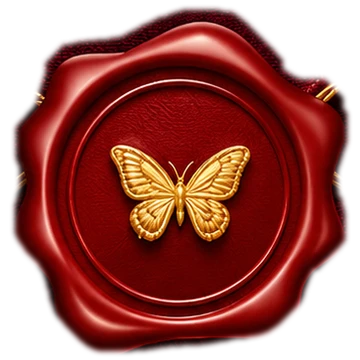
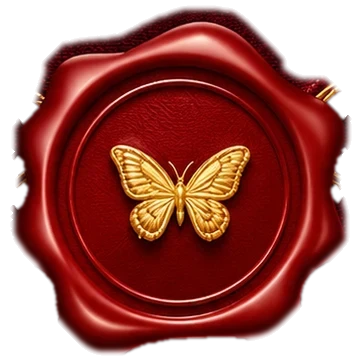
Envelope: no white ring around the seal; flap hinges at the top and opens upward
Claude-Session: https://claude.ai/code/session_01A7U3bhfqdo6UgM5ft2nzAm

diff --git a/styles.css b/styles.css
@@ -438,11 +438,11 @@ html[lang="en"] .db-year{ font-variant-numeric:lining-nums; font-feature-setting
 /* ---------- Zardozi (bride) and ivory (groom) envelopes ---------- */
 html[data-theme="bride"] .envelope{ aspect-ratio:1.3934; width:min(92vw,420px); }
 html[data-theme="bride"] .env-flap{ height:61.37%; }
-html[data-theme="bride"] .env-flap-back{ clip-path:polygon(0 0,100% 0,50.18% 97.97%); }
+html[data-theme="bride"] .env-flap-back{ clip-path:polygon(0 100%,100% 100%,50.18% 2.03%); }
 html[data-theme="bride"] .seal, html[data-theme="bride"] .seal-flash{ left:50.11%; top:56.39%; width:26.21%; }
 html[data-theme="groom"] .envelope{ aspect-ratio:1.4396; width:min(92vw,420px); }
 html[data-theme="groom"] .env-flap{ height:72.42%; }
-html[data-theme="groom"] .env-flap-back{ clip-path:polygon(0 0,100% 0,48.04% 98.36%); }
+html[data-theme="groom"] .env-flap-back{ clip-path:polygon(0 100%,100% 100%,48.04% 1.64%); }
 html[data-theme="groom"] .seal, html[data-theme="groom"] .seal-flash{ left:49.42%; top:56.77%; width:24.54%; }
 .env-pocket-img{ position:absolute; inset:0; width:100%; height:100%; z-index:3; display:block; pointer-events:none; }
 .env-flap{ filter:drop-shadow(0 3px 4px rgba(40,0,10,.25)); transform-style:preserve-3d; }
@@ -457,3 +457,7 @@ html[data-theme="groom"] .env-back{ background:linear-gradient(#e9dbbf,#f6ecd8);
 .stage::before{ opacity:.08; }
 .env-flap{ filter:none; }
 .env-flap-front{ filter:drop-shadow(0 3px 4px rgba(40,0,10,.25)); }
+.seal-patch{ position:absolute; z-index:5; transform:translate(-50%,-50%); aspect-ratio:1; pointer-events:none; transition:opacity .25s ease; }
+.envelope.is-opening .seal-patch{ opacity:0; }
+html[data-theme="bride"] .seal-patch{ left:50.11%; top:56.39%; width:49.68%; }
+html[data-theme="groom"] .seal-patch{ left:49.42%; top:56.77%; width:46.63%; }

diff --git a/index.html b/index.html
@@ -39,6 +39,8 @@
       <img class="env-flap-front only-groom" src="img/env/flap-groom.webp" alt="">
       <div class="env-flap-back"></div>
     </div>
+    <img class="seal-patch only-bride" src="img/env/patch-bride.webp" alt="" aria-hidden="true">
+    <img class="seal-patch only-groom" src="img/env/patch-groom.webp" alt="" aria-hidden="true">
     <div class="seal-flash" aria-hidden="true"></div>
     <div class="seal" aria-hidden="true">
       <img class="seal-l only-bride" src="img/env/seal-bride.webp" alt="">
